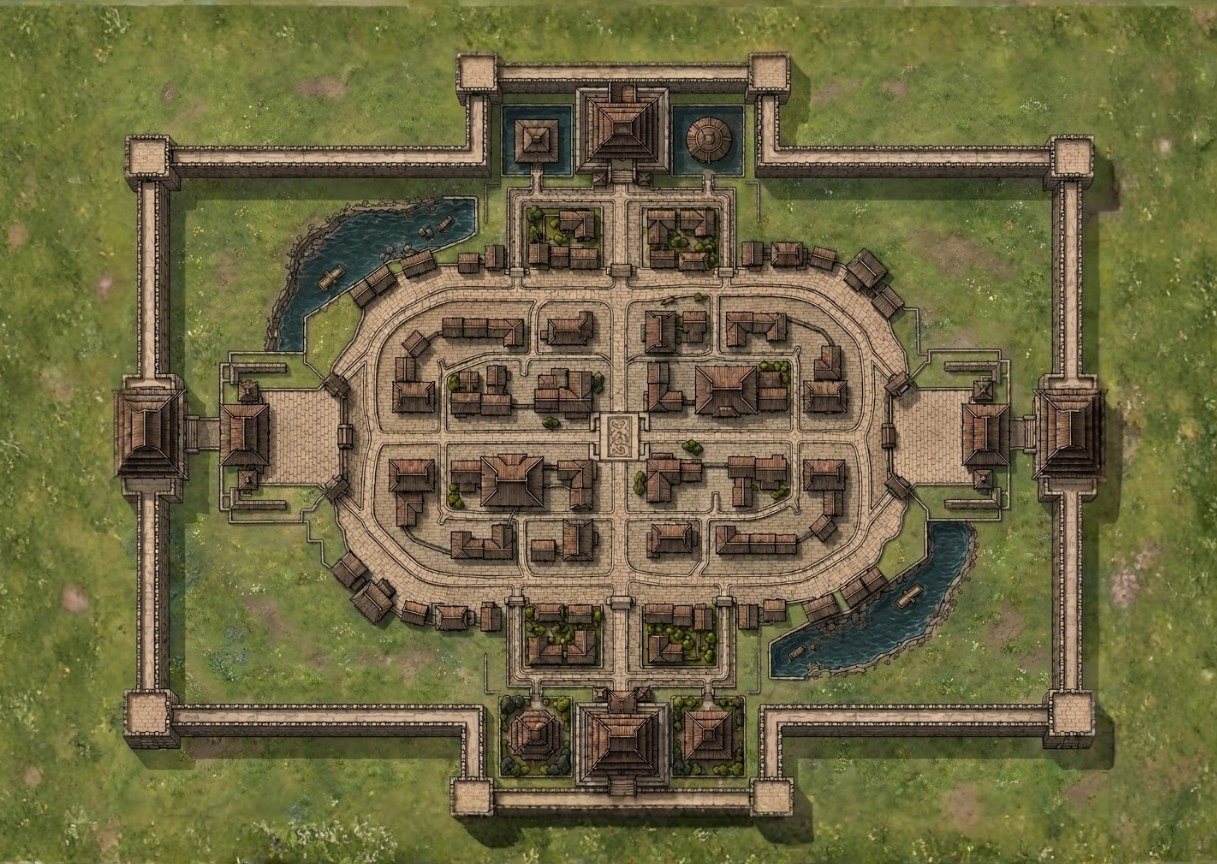
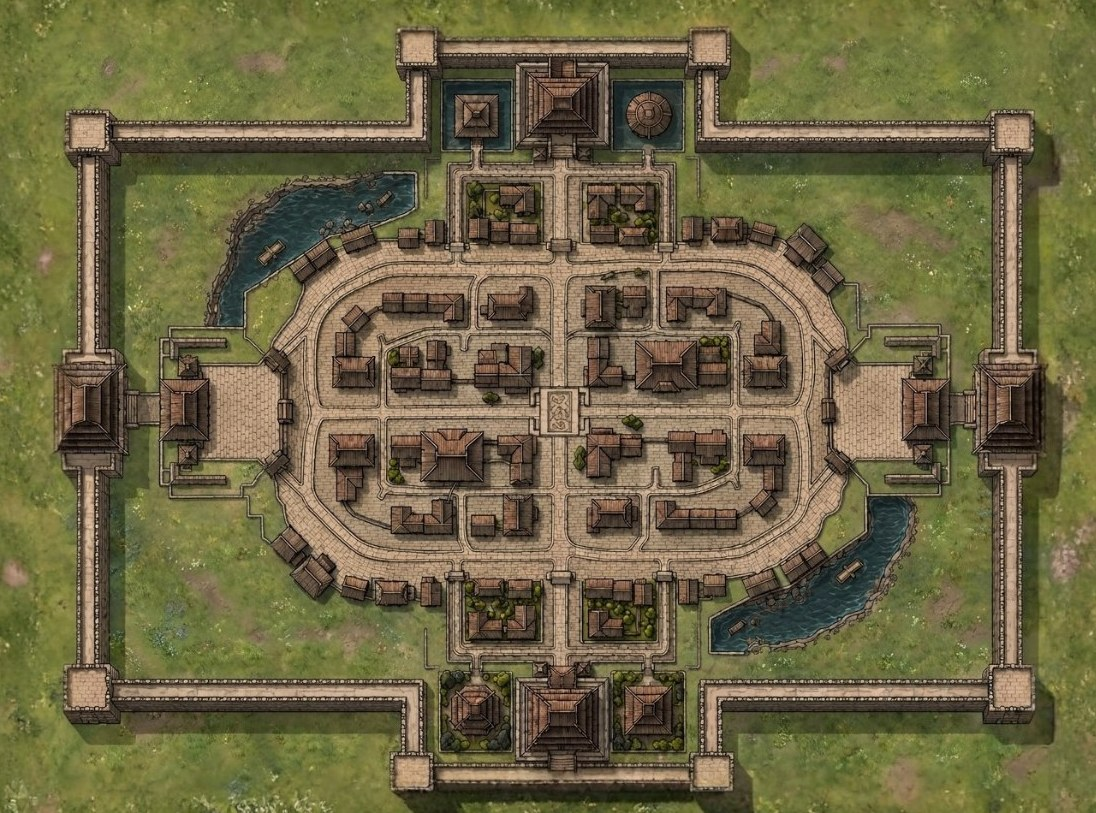
Estrategia: remapear objetivos + calibracao + zoom + corte + icones de classe
Mapa: cortado nas laterais (menos grama) e cantos arredondados no canvas.
mapSize atualizado (1096x813); posicoes dos objetivos recalculadas do zero a
partir do mapa de referencia (torres nas lanes, ganso/arvore nos portoes, boss
nas 2 pontas, outpost ao lado, jungle espalhada).

Calibracao: objetivos fixos (torres/boss/outpost/jungle) agora sao arrastaveis
QUANDO o painel "Objetivos" esta aberto (mostram anel tracejado), e a posicao
fica salva globalmente (mesma em todos os cenarios). Fora do painel ficam
travados. Ganso/arvore continuam moveis por cenario. Assim da pra acertar a
posicao 1 vez e travar.

Outros:
- Controles de zoom no mapa (+ / - / ajustar), alem do scroll.
- "Fases padrao" saiu da topbar e virou botao dentro do dock de fases.
- Painel de objetivos: toggle por GRUPO (liga/desliga Torres, Jungle etc. de
  uma vez) com contador; nao precisa marcar 1 a 1.
- Icones de classe (Tank/DPS/Healer da referencia) nos tokens de membro
  destacado, no lugar da letra.
- objetivoPosGlobal salvo no projeto/export/share.

Claude-Session: https://claude.ai/code/session_01QzsUHuP26rXPEKq16jdjKF

diff --git a/estrategia/config.js b/estrategia/config.js
@@ -11,14 +11,14 @@
 
 const WWM = {
   /* --- imagem do mapa ---------------------------------------------------- */
-  // Tamanho natural (px) da arte do mapa. Usado só para manter proporção.
-  mapSize: { w: 1217, h: 864 },
+  // Tamanho natural (px) da arte do mapa (v2 cortado). Só para manter proporção.
+  mapSize: { w: 1096, h: 813 },
 
   assets: {
-    // Mapa base (limpo, grama até a borda) — gerado pela guild (v2).
+    // Mapa base (limpo, grama até a borda, cortado) — gerado pela guild (v2).
     map: '../assets/map/board.jpg',
 
-    // Ícones dos objetivos (placeholder do vendor-ref — TODO: trocar por próprios).
+    // Ícones (placeholder do vendor-ref — TODO: trocar por próprios).
     icons: {
       tower_blue: '../assets/vendor-ref/tower_blue.png',
       tower_red:  '../assets/vendor-ref/tower_red.png',
@@ -27,8 +27,14 @@ const WWM = {
       tree_blue:  '../assets/vendor-ref/tree_blue.png',
       tree_red:   '../assets/vendor-ref/tree_red.png',
       boss:       '../assets/vendor-ref/boss.png',
+      tank:       '../assets/vendor-ref/tank.png',
+      dps:        '../assets/vendor-ref/dps.png',
+      healer:     '../assets/vendor-ref/healer.png',
     },
   },
+
+  // ícone de classe por função (para os tokens de membro destacado)
+  classIcons: { Tank: 'tank', DPS: 'dps', Healer: 'healer' },
 
   /* --- catálogo de objetivos -------------------------------------------
    * Cada objetivo pode ser ligado/desligado ("up") por cenário e reposicionado
@@ -41,33 +47,33 @@ const WWM = {
   // TODO: refinar posições no mapa novo que a guild vai gerar.
   objetivos: [
     // 3 torres por lado (top / mid / bot) — FIXAS
-    { id: 'torre_top_o', grupo: 'Torres', rotulo: 'Torre Top (O)', icone: 'tower_blue', x: 0.393, y: 0.312 },
-    { id: 'torre_mid_o', grupo: 'Torres', rotulo: 'Torre Mid (O)', icone: 'tower_blue', x: 0.393, y: 0.499 },
-    { id: 'torre_bot_o', grupo: 'Torres', rotulo: 'Torre Bot (O)', icone: 'tower_blue', x: 0.393, y: 0.687 },
-    { id: 'torre_top_l', grupo: 'Torres', rotulo: 'Torre Top (L)', icone: 'tower_red',  x: 0.626, y: 0.312 },
-    { id: 'torre_mid_l', grupo: 'Torres', rotulo: 'Torre Mid (L)', icone: 'tower_red',  x: 0.626, y: 0.499 },
-    { id: 'torre_bot_l', grupo: 'Torres', rotulo: 'Torre Bot (L)', icone: 'tower_red',  x: 0.626, y: 0.687 },
-    // ganso nos 2 lados (nasce no portão) — MÓVEL (mas só dentro da base)
-    { id: 'ganso_o', grupo: 'Ganso', rotulo: 'Ganso (Oeste)', icone: 'goose_blue', x: 0.196, y: 0.499, movel: true },
-    { id: 'ganso_l', grupo: 'Ganso', rotulo: 'Ganso (Leste)', icone: 'goose_red',  x: 0.827, y: 0.499, movel: true },
+    { id: 'torre_top_o', grupo: 'Torres', rotulo: 'Torre Top (O)', icone: 'tower_blue', x: 0.392, y: 0.322 },
+    { id: 'torre_mid_o', grupo: 'Torres', rotulo: 'Torre Mid (O)', icone: 'tower_blue', x: 0.392, y: 0.521 },
+    { id: 'torre_bot_o', grupo: 'Torres', rotulo: 'Torre Bot (O)', icone: 'tower_blue', x: 0.392, y: 0.721 },
+    { id: 'torre_top_l', grupo: 'Torres', rotulo: 'Torre Top (L)', icone: 'tower_red',  x: 0.627, y: 0.322 },
+    { id: 'torre_mid_l', grupo: 'Torres', rotulo: 'Torre Mid (L)', icone: 'tower_red',  x: 0.627, y: 0.521 },
+    { id: 'torre_bot_l', grupo: 'Torres', rotulo: 'Torre Bot (L)', icone: 'tower_red',  x: 0.627, y: 0.721 },
+    // ganso nos 2 lados (nasce no portão) — MÓVEL
+    { id: 'ganso_o', grupo: 'Ganso', rotulo: 'Ganso (Oeste)', icone: 'goose_blue', x: 0.195, y: 0.521, movel: true },
+    { id: 'ganso_l', grupo: 'Ganso', rotulo: 'Ganso (Leste)', icone: 'goose_red',  x: 0.829, y: 0.521, movel: true },
     // árvore nasce no MESMO ponto do ganso e caminha até o portão inimigo (333m) — MÓVEL
-    { id: 'arvore_o', grupo: 'Árvore', rotulo: 'Árvore (Oeste)', icone: 'tree_blue', x: 0.196, y: 0.499, movel: true, caminho: { a: [0.196, 0.499], b: [0.827, 0.499] } },
-    { id: 'arvore_l', grupo: 'Árvore', rotulo: 'Árvore (Leste)', icone: 'tree_red',  x: 0.827, y: 0.499, movel: true, caminho: { a: [0.827, 0.499], b: [0.196, 0.499] } },
+    { id: 'arvore_o', grupo: 'Árvore', rotulo: 'Árvore (Oeste)', icone: 'tree_blue', x: 0.195, y: 0.521, movel: true, caminho: { a: [0.195, 0.521], b: [0.829, 0.521] } },
+    { id: 'arvore_l', grupo: 'Árvore', rotulo: 'Árvore (Leste)', icone: 'tree_red',  x: 0.829, y: 0.521, movel: true, caminho: { a: [0.829, 0.521], b: [0.195, 0.521] } },
     // boss / nirvana nas 2 PONTAS (norte e sul) — FIXO
-    { id: 'boss_n', grupo: 'Boss', rotulo: 'Boss / Nirvana (N)', icone: 'boss', x: 0.420, y: 0.122 },
-    { id: 'boss_s', grupo: 'Boss', rotulo: 'Boss / Nirvana (S)', icone: 'boss', x: 0.579, y: 0.856 },
-    // outpost — nasce quase ao lado do boss (FIXO). Sem ícone próprio (marcador).
-    { id: 'outpost_n', grupo: 'Outpost', rotulo: 'Outpost (N)', icone: 'outpost', x: 0.545, y: 0.150 },
-    { id: 'outpost_s', grupo: 'Outpost', rotulo: 'Outpost (S)', icone: 'outpost', x: 0.455, y: 0.828 },
+    { id: 'boss_n', grupo: 'Boss', rotulo: 'Boss / Nirvana (N)', icone: 'boss', x: 0.421, y: 0.122 },
+    { id: 'boss_s', grupo: 'Boss', rotulo: 'Boss / Nirvana (S)', icone: 'boss', x: 0.580, y: 0.900 },
+    // outpost — nasce quase ao lado do boss (FIXO). Marcador.
+    { id: 'outpost_n', grupo: 'Outpost', rotulo: 'Outpost (N)', icone: 'outpost', x: 0.576, y: 0.138 },
+    { id: 'outpost_s', grupo: 'Outpost', rotulo: 'Outpost (S)', icone: 'outpost', x: 0.444, y: 0.885 },
     // jungle (mini-ninjas) — 8 camps FIXOS
-    { id: 'jg_1', grupo: 'Jungle', rotulo: 'Jungle 1', icone: 'jungle', x: 0.37, y: 0.44 },
-    { id: 'jg_2', grupo: 'Jungle', rotulo: 'Jungle 2', icone: 'jungle', x: 0.45, y: 0.45 },
-    { id: 'jg_3', grupo: 'Jungle', rotulo: 'Jungle 3', icone: 'jungle', x: 0.55, y: 0.40 },
-    { id: 'jg_4', grupo: 'Jungle', rotulo: 'Jungle 4', icone: 'jungle', x: 0.63, y: 0.40 },
-    { id: 'jg_5', grupo: 'Jungle', rotulo: 'Jungle 5', icone: 'jungle', x: 0.37, y: 0.60 },
-    { id: 'jg_6', grupo: 'Jungle', rotulo: 'Jungle 6', icone: 'jungle', x: 0.45, y: 0.62 },
-    { id: 'jg_7', grupo: 'Jungle', rotulo: 'Jungle 7', icone: 'jungle', x: 0.55, y: 0.56 },
-    { id: 'jg_8', grupo: 'Jungle', rotulo: 'Jungle 8', icone: 'jungle', x: 0.63, y: 0.63 },
+    { id: 'jg_1', grupo: 'Jungle', rotulo: 'Jungle 1', icone: 'jungle', x: 0.407, y: 0.434 },
+    { id: 'jg_2', grupo: 'Jungle', rotulo: 'Jungle 2', icone: 'jungle', x: 0.482, y: 0.414 },
+    { id: 'jg_3', grupo: 'Jungle', rotulo: 'Jungle 3', icone: 'jungle', x: 0.557, y: 0.414 },
+    { id: 'jg_4', grupo: 'Jungle', rotulo: 'Jungle 4', icone: 'jungle', x: 0.613, y: 0.434 },
+    { id: 'jg_5', grupo: 'Jungle', rotulo: 'Jungle 5', icone: 'jungle', x: 0.407, y: 0.619 },
+    { id: 'jg_6', grupo: 'Jungle', rotulo: 'Jungle 6', icone: 'jungle', x: 0.482, y: 0.639 },
+    { id: 'jg_7', grupo: 'Jungle', rotulo: 'Jungle 7', icone: 'jungle', x: 0.557, y: 0.639 },
+    { id: 'jg_8', grupo: 'Jungle', rotulo: 'Jungle 8', icone: 'jungle', x: 0.613, y: 0.619 },
   ],
   objetivosGrupos: ['Torres', 'Ganso', 'Árvore', 'Boss', 'Outpost', 'Jungle'],
   treeMeters: 333,   // distância total do caminho da árvore (base -> portão inimigo)

diff --git a/estrategia/app.js b/estrategia/app.js
@@ -31,7 +31,7 @@
   const objBtn = $('objBtn'), objPanel = $('objPanel'), objClose = $('objClose'), objGroups = $('objGroups');
   const fasesBtn = $('fasesBtn'), dockCollapse = $('dockCollapse'), dockMini = $('dockMini'), dockExpand = $('dockExpand'), miniName = $('miniName'), miniPrev = $('miniPrev'), miniNext = $('miniNext');
 
-  const state = { scenarios: [], currentId: null, roster: [], tool: 'select', drawColor: CFG.drawColors[0], drawWidth: CFG.drawWidths[0], present: false };
+  const state = { scenarios: [], currentId: null, roster: [], objetivoPosGlobal: {}, tool: 'select', drawColor: CFG.drawColors[0], drawWidth: CFG.drawWidths[0], present: false };
   const partyById = new Map(CFG.parties.map(p => [p.id, p]));
   const objById = new Map(CFG.objetivos.map(o => [o.id, o]));
   let popoverPt = null, rosterDraft = [];
@@ -86,6 +86,8 @@
   }
   function clampPos(x, y, s) { const minX = W - W * s, minY = H - H * s; if (s <= 1) return { x: 0, y: 0 }; return { x: Math.min(0, Math.max(minX, x)), y: Math.min(0, Math.max(minY, y)) }; }
   function updateStageDrag() { stage.draggable(stage.scaleX() > 1 && state.tool === 'select'); }
+  function zoomBy(factor) { const cx = W / 2, cy = H / 2, old = stage.scaleX(); let ns = Math.max(1, Math.min(4, old * factor)); const mp = { x: (cx - stage.x()) / old, y: (cy - stage.y()) / old }; stage.scale({ x: ns, y: ns }); stage.position(clampPos(cx - mp.x * ns, cy - mp.y * ns, ns)); stage.batchDraw(); updateStageDrag(); hidePopover(); }
+  function zoomReset() { stage.scale({ x: 1, y: 1 }); stage.position({ x: 0, y: 0 }); stage.batchDraw(); updateStageDrag(); hidePopover(); }
   function frac() { const p = stage.getPointerPosition(); if (!p) return null; const s = stage.scaleX() || 1; return { xf: clamp01((p.x - stage.x()) / s / W), yf: clamp01((p.y - stage.y()) / s / H) }; }
 
   // ---- undo (cenário inteiro: tokens, desenhos, objetivos, posições, destacados) ----
@@ -151,7 +153,9 @@
     const p = partyById.get(d.pt), rc = roleColor(d.funcao), rm = Math.max(8, R * 0.56);
     const g = new Konva.Group({ draggable: !state.present, id: 'mem-' + d.id });
     g.add(new Konva.Circle({ radius: rm, fill: '#0b0e15', stroke: rc, strokeWidth: Math.max(1.6, rm * 0.22), shadowColor: '#000', shadowBlur: 4, shadowOpacity: 0.4, shadowOffsetY: 1 }));
-    g.add(new Konva.Text({ text: d.funcao[0], fontFamily: 'Oswald, sans-serif', fontStyle: '700', fontSize: rm * 0.9, fill: rc, align: 'center', verticalAlign: 'middle', width: rm * 2, height: rm * 2, offsetX: rm, offsetY: rm }));
+    const ci = iconImgs[(CFG.classIcons || {})[d.funcao]];
+    if (ci && ci.width) { const s = rm * 1.5, h = s * (ci.height / ci.width); g.add(new Konva.Image({ image: ci, width: s, height: h, offsetX: s / 2, offsetY: h / 2 })); }
+    else g.add(new Konva.Text({ text: d.funcao[0], fontFamily: 'Oswald, sans-serif', fontStyle: '700', fontSize: rm * 0.9, fill: rc, align: 'center', verticalAlign: 'middle', width: rm * 2, height: rm * 2, offsetX: rm, offsetY: rm }));
     const lbl = new Konva.Label({ x: rm + 3, y: -rm * 0.55 });
     lbl.add(new Konva.Tag({ fill: 'rgba(10,12,17,.78)', stroke: p.cor, strokeWidth: 0.8, cornerRadius: 3 }));
     lbl.add(new Konva.Text({ text: d.nome, fontFamily: 'Oswald, sans-serif', fontStyle: '600', fontSize: Math.max(8.5, R * 0.4), fill: '#EDEBE4', padding: 2 }));
@@ -208,7 +212,7 @@
   function hidePopover() { ptPopover.hidden = true; popoverPt = null; }
 
   // ---- objetivos ----
-  function objPos(o) { if (o.movel) { const p = cur().objetivoPos && cur().objetivoPos[o.id]; if (p) return { x: p.x, y: p.y }; } return { x: o.x, y: o.y }; }
+  function objPos(o) { if (o.movel) { const p = cur().objetivoPos && cur().objetivoPos[o.id]; if (p) return { x: p.x, y: p.y }; } else { const g = state.objetivoPosGlobal[o.id]; if (g) return { x: g.x, y: g.y }; } return { x: o.x, y: o.y }; }
   function treeMeters(o, xf, yf) { const a = o.caminho.a, b = o.caminho.b, ax = b[0] - a[0], ay = b[1] - a[1]; const t = ((xf - a[0]) * ax + (yf - a[1]) * ay) / (ax * ax + ay * ay || 1); return Math.round(Math.max(0, Math.min(1, t)) * CFG.treeMeters); }
   function renderObjectives() {
     objLayer.destroyChildren();
@@ -217,19 +221,20 @@
       if (!up[o.id]) return;
       const pos = objPos(o);
       if (o.caminho) objLayer.add(new Konva.Line({ points: [o.caminho.a[0] * W, o.caminho.a[1] * H, o.caminho.b[0] * W, o.caminho.b[1] * H], stroke: hexA(o.icone === 'tree_red' ? '#E25B52' : '#89ABC5', 0.45), strokeWidth: Math.max(1, R * 0.05), dash: [4, 6], listening: false }));
-      const g = new Konva.Group({ x: pos.x * W, y: pos.y * H, draggable: !state.present && !!o.movel });
+      const calib = !objPanel.hidden, canDrag = !state.present && (!!o.movel || calib);
+      const g = new Konva.Group({ x: pos.x * W, y: pos.y * H, draggable: canDrag });
       g.add(new Konva.Circle({ radius: os * 0.58, fill: 'rgba(8,10,14,.34)', stroke: 'rgba(255,255,255,.1)', strokeWidth: 1 }));
+      if (calib && !o.movel) g.add(new Konva.Circle({ radius: os * 0.66, stroke: '#D9A441', strokeWidth: 1.5, dash: [3, 3], opacity: 0.9 }));   // sinaliza calibração
       const img = iconImgs[o.icone];
       if (img && img.width) { const h = os * (img.height / img.width); g.add(new Konva.Image({ image: img, width: os, height: h, offsetX: os / 2, offsetY: h / 2 })); }
       else { const isOut = o.icone === 'outpost', col = isOut ? '#D9A441' : '#4CC9A4', txt = isOut ? 'OUT' : 'JG'; g.add(new Konva.Circle({ radius: os * 0.4, fill: hexA(col, 0.2), stroke: col, strokeWidth: 1.5 })); g.add(new Konva.Text({ text: txt, fontFamily: 'Oswald, sans-serif', fontStyle: '700', fontSize: os * (isOut ? 0.26 : 0.32), fill: col, align: 'center', verticalAlign: 'middle', width: os, height: os, offsetX: os / 2, offsetY: os / 2 })); }
       if (o.caminho) { const ml = new Konva.Label({ name: 'tm', y: os * 0.58 }); ml.add(new Konva.Tag({ fill: 'rgba(10,12,17,.82)', cornerRadius: 3, pointerDirection: 'up', pointerWidth: 5, pointerHeight: 4 })); ml.add(new Konva.Text({ text: treeMeters(o, pos.x, pos.y) + 'm', fontFamily: 'Oswald, sans-serif', fontStyle: '700', fontSize: Math.max(9, os * 0.3), fill: '#f0c66b', padding: 3 })); ml.offsetX(ml.getClientRect({ skipTransform: true }).width / 2); g.add(ml); }
-      // remover objetivo: duplo-clique
       g.on('dblclick dbltap', e => { e.cancelBubble = true; pushUndo(); delete cur().objetivos[o.id]; if (cur().objetivoPos) delete cur().objetivoPos[o.id]; renderObjectives(); if (!objPanel.hidden) renderObjPanel(); saveProject(); });
-      if (!state.present && o.movel) {
+      if (canDrag) {
         g.dragBoundFunc(clampToStage);
-        g.on('dragstart', pushUndo);
+        g.on('dragstart', () => { if (o.movel) pushUndo(); });
         g.on('dragmove', () => { if (o.caminho) { const t = g.findOne('.tm'); if (t) { t.findOne('Text').text(treeMeters(o, g.x() / W, g.y() / H) + 'm'); t.offsetX(t.getClientRect({ skipTransform: true }).width / 2); } } objLayer.batchDraw(); });
-        g.on('dragend', () => { cur().objetivoPos = cur().objetivoPos || {}; cur().objetivoPos[o.id] = { x: clamp01(g.x() / W), y: clamp01(g.y() / H) }; saveProject(); });
+        g.on('dragend', () => { const p = { x: clamp01(g.x() / W), y: clamp01(g.y() / H) }; if (o.movel) { cur().objetivoPos = cur().objetivoPos || {}; cur().objetivoPos[o.id] = p; } else { state.objetivoPosGlobal[o.id] = p; } saveProject(); });
         g.on('mouseenter', () => stage.container().style.cursor = 'grab');
         g.on('mouseleave', () => stage.container().style.cursor = toolCursor());
       } else {
@@ -240,21 +245,28 @@
     });
     objLayer.batchDraw();
   }
+  function setObjUp(id, on) { const c = cur().objetivos; if (on) c[id] = true; else { delete c[id]; if (cur().objetivoPos) delete cur().objetivoPos[id]; } }
   function renderObjPanel() {
     const up = cur() ? (cur().objetivos || {}) : {}; objGroups.innerHTML = '';
     CFG.objetivosGrupos.forEach(grp => {
       const list = CFG.objetivos.filter(o => o.grupo === grp); if (!list.length) return;
-      const box = document.createElement('div'); box.className = 'obj-g'; box.innerHTML = '<div class="gh">' + grp + '</div>';
+      const nUp = list.filter(o => up[o.id]).length, allUp = nUp === list.length;
+      const box = document.createElement('div'); box.className = 'obj-g';
+      const gh = document.createElement('label'); gh.className = 'obj-gh' + (nUp ? ' any' : '');
+      gh.innerHTML = '<input type="checkbox"' + (allUp ? ' checked' : '') + '><span class="gname">' + grp + '</span><span class="gcount">' + nUp + '/' + list.length + '</span>';
+      const gcb = gh.querySelector('input'); gcb.indeterminate = nUp > 0 && !allUp;
+      gcb.addEventListener('change', () => { pushUndo(); list.forEach(o => setObjUp(o.id, gcb.checked)); renderObjectives(); renderObjPanel(); saveProject(); });
+      box.appendChild(gh);
       list.forEach(o => {
         const row = document.createElement('label'); row.className = 'obj-row' + (up[o.id] ? ' up' : '');
         row.innerHTML = '<input type="checkbox"' + (up[o.id] ? ' checked' : '') + '><span class="on"></span><span class="nm">' + esc(o.rotulo) + '</span>';
-        row.querySelector('input').addEventListener('change', e => { pushUndo(); const c = cur().objetivos; if (e.target.checked) c[o.id] = true; else { delete c[o.id]; if (cur().objetivoPos) delete cur().objetivoPos[o.id]; } row.classList.toggle('up', e.target.checked); renderObjectives(); saveProject(); });
+        row.querySelector('input').addEventListener('change', e => { pushUndo(); setObjUp(o.id, e.target.checked); row.classList.toggle('up', e.target.checked); renderObjectives(); renderObjPanel(); saveProject(); });
         box.appendChild(row);
       });
       objGroups.appendChild(box);
     });
   }
-  function toggleObjPanel(force) { const show = force != null ? force : objPanel.hidden; if (show) { renderObjPanel(); objPanel.hidden = false; objBtn.classList.add('on'); } else { objPanel.hidden = true; objBtn.classList.remove('on'); } }
+  function toggleObjPanel(force) { const show = force != null ? force : objPanel.hidden; if (show) { renderObjPanel(); objPanel.hidden = false; objBtn.classList.add('on'); } else { objPanel.hidden = true; objBtn.classList.remove('on'); } renderObjectives(); }
 
   // ---- desenho ----
   function toolCursor() { return DRAW.includes(state.tool) ? 'crosshair' : 'default'; }
@@ -329,11 +341,12 @@
   function autoAssign() { const avail = rosterDraft.filter(p => !p.ausente && !p.reserva); avail.forEach(p => p.pt = null); if (!avail.length) { renderGrid(); return; } const nPT = Math.max(1, Math.min(CFG.parties.length, Math.ceil(avail.length / CFG.ptSize))); const buckets = Array.from({ length: nPT }, () => []); let bi = 0; const deal = list => { list.forEach(p => { buckets[bi % nPT].push(p); bi++; }); }; bi = 0; deal(avail.filter(p => p.funcao === 'Tank')); bi = 0; deal(avail.filter(p => p.funcao === 'Healer')); bi = 0; deal(avail.filter(p => p.funcao === 'DPS')); buckets.forEach((b, k) => b.forEach(p => p.pt = PT_IDS[k])); renderGrid(); }
 
   // ---- export / import / compartilhar / reset ----
-  function projectData() { return { app: 'zhi-estrategia', v: 5, exportedAt: new Date().toISOString(), currentId: state.currentId, roster: state.roster, cenarios: state.scenarios }; }
+  function projectData() { return { app: 'zhi-estrategia', v: 5, exportedAt: new Date().toISOString(), currentId: state.currentId, roster: state.roster, objetivoPosGlobal: state.objetivoPosGlobal, cenarios: state.scenarios }; }
+  function sanitizePosMap(m) { return (m && typeof m === 'object') ? Object.fromEntries(Object.entries(m).filter(([k, v]) => objById.has(k) && v).map(([k, v]) => [k, { x: clamp01(v.x), y: clamp01(v.y) }])) : {}; }
   function exportProject() { const blob = new Blob([JSON.stringify(projectData(), null, 2)], { type: 'application/json' }); const url = URL.createObjectURL(blob), d = new Date(), pad = n => String(n).padStart(2, '0'); const a = document.createElement('a'); a.href = url; a.download = 'estrategia-wanted-' + d.getFullYear() + pad(d.getMonth() + 1) + pad(d.getDate()) + '.json'; document.body.appendChild(a); a.click(); a.remove(); setTimeout(() => URL.revokeObjectURL(url), 1000); }
-  function applyImported(d) { const scenarios = Array.isArray(d.cenarios) ? d.cenarios : (Array.isArray(d.scenarios) ? d.scenarios : null); if (!scenarios || !scenarios.length) { alert('Não encontrei cenários neste plano.'); return false; } state.scenarios = scenarios.map(sanitizeScenario); state.roster = Array.isArray(d.roster) ? d.roster.map(sanitizePlayer) : []; state.currentId = d.currentId && state.scenarios.some(s => s.id === d.currentId) ? d.currentId : state.scenarios[0].id; hidePopover(); renderRail(); loadScenarioIntoUI(); renderDrawings(); renderObjectives(); renderSidebar(); renderTokens(); saveProject(); return true; }
+  function applyImported(d) { const scenarios = Array.isArray(d.cenarios) ? d.cenarios : (Array.isArray(d.scenarios) ? d.scenarios : null); if (!scenarios || !scenarios.length) { alert('Não encontrei cenários neste plano.'); return false; } state.scenarios = scenarios.map(sanitizeScenario); state.roster = Array.isArray(d.roster) ? d.roster.map(sanitizePlayer) : []; state.objetivoPosGlobal = sanitizePosMap(d.objetivoPosGlobal); state.currentId = d.currentId && state.scenarios.some(s => s.id === d.currentId) ? d.currentId : state.scenarios[0].id; hidePopover(); renderRail(); loadScenarioIntoUI(); renderDrawings(); renderObjectives(); renderSidebar(); renderTokens(); saveProject(); return true; }
   function importProjectFile(file) { const reader = new FileReader(); reader.onload = () => { let d; try { d = JSON.parse(reader.result); } catch (e) { alert('Arquivo inválido: não é um JSON.'); return; } if (!Array.isArray(d.cenarios) && !Array.isArray(d.scenarios)) { alert('Não encontrei cenários neste arquivo.'); return; } if (state.scenarios.some(s => !isPristine(s)) && !confirm('Importar vai substituir o plano atual. Continuar?')) return; applyImported(d); }; reader.readAsText(file); }
-  function resetAll() { if (!confirm('Resetar tudo e começar um plano do zero? (não dá pra desfazer)')) return; try { localStorage.removeItem(CFG.projectKey); } catch (e) {} const s = newScenario({ fase: 'Start', nome: 'Start (30m)' }); state.scenarios = [s]; state.currentId = s.id; state.roster = []; toggleObjPanel(false); hidePopover(); renderRail(); loadScenarioIntoUI(); renderDrawings(); renderObjectives(); renderSidebar(); renderTokens(); saveProject(); toast('Plano resetado ✓'); }
+  function resetAll() { if (!confirm('Resetar tudo e começar um plano do zero? (não dá pra desfazer)')) return; try { localStorage.removeItem(CFG.projectKey); } catch (e) {} const s = newScenario({ fase: 'Start', nome: 'Start (30m)' }); state.scenarios = [s]; state.currentId = s.id; state.roster = []; state.objetivoPosGlobal = {}; toggleObjPanel(false); hidePopover(); renderRail(); loadScenarioIntoUI(); renderDrawings(); renderObjectives(); renderSidebar(); renderTokens(); saveProject(); toast('Plano resetado ✓'); }
   function b64urlFromBytes(bytes) { let bin = ''; for (let i = 0; i < bytes.length; i++) bin += String.fromCharCode(bytes[i]); return btoa(bin).replace(/\+/g, '-').replace(/\//g, '_').replace(/=+$/, ''); }
   function bytesFromB64url(s) { s = s.replace(/-/g, '+').replace(/_/g, '/'); const bin = atob(s); const a = new Uint8Array(bin.length); for (let i = 0; i < bin.length; i++) a[i] = bin.charCodeAt(i); return a; }
   async function encodeShare(obj) { const bytes = new TextEncoder().encode(JSON.stringify(obj)); if (window.CompressionStream) { const st = new Blob([bytes]).stream().pipeThrough(new CompressionStream('gzip')); return 'g' + b64urlFromBytes(new Uint8Array(await new Response(st).arrayBuffer())); } return 'r' + b64urlFromBytes(bytes); }
@@ -370,6 +383,7 @@
     exportBtn.addEventListener('click', exportProject); importBtn.addEventListener('click', () => importFile.click());
     importFile.addEventListener('change', e => { const f = e.target.files[0]; if (f) importProjectFile(f); e.target.value = ''; });
     shareBtn.addEventListener('click', shareLink); resetBtn.addEventListener('click', resetAll);
+    $('zoomIn').addEventListener('click', () => zoomBy(1.25)); $('zoomOut').addEventListener('click', () => zoomBy(0.8)); $('zoomReset').addEventListener('click', zoomReset);
     presentBtn.addEventListener('click', enterPresent); exitBtn.addEventListener('click', exitPresent);
     prevBtn.addEventListener('click', () => go(-1)); nextBtn.addEventListener('click', () => go(1));
     miniPrev.addEventListener('click', () => go(-1)); miniNext.addEventListener('click', () => go(1));
@@ -402,8 +416,8 @@
   function setDock(open) { document.body.classList.toggle('dock-collapsed', !open); dockMini.hidden = open; fasesBtn.classList.toggle('on', open); if (!open) updateMini(); requestAnimationFrame(fit); }
 
   // ---- persistência ----
-  function saveProject() { try { localStorage.setItem(CFG.projectKey, JSON.stringify({ v: 5, currentId: state.currentId, scenarios: state.scenarios, roster: state.roster })); } catch (e) {} }
-  function loadProject() { try { const raw = localStorage.getItem(CFG.projectKey); if (raw) { const d = JSON.parse(raw); if (Array.isArray(d.scenarios) && d.scenarios.length) { state.scenarios = d.scenarios.map(sanitizeScenario); state.currentId = d.currentId && state.scenarios.some(s => s.id === d.currentId) ? d.currentId : state.scenarios[0].id; if (Array.isArray(d.roster)) state.roster = d.roster.map(sanitizePlayer); return; } } } catch (e) {} const s = newScenario({ fase: 'Start', nome: 'Start (30m)' }); state.scenarios = [s]; state.currentId = s.id; }
+  function saveProject() { try { localStorage.setItem(CFG.projectKey, JSON.stringify({ v: 5, currentId: state.currentId, scenarios: state.scenarios, roster: state.roster, objetivoPosGlobal: state.objetivoPosGlobal })); } catch (e) {} }
+  function loadProject() { try { const raw = localStorage.getItem(CFG.projectKey); if (raw) { const d = JSON.parse(raw); if (Array.isArray(d.scenarios) && d.scenarios.length) { state.scenarios = d.scenarios.map(sanitizeScenario); state.currentId = d.currentId && state.scenarios.some(s => s.id === d.currentId) ? d.currentId : state.scenarios[0].id; if (Array.isArray(d.roster)) state.roster = d.roster.map(sanitizePlayer); state.objetivoPosGlobal = sanitizePosMap(d.objetivoPosGlobal); return; } } } catch (e) {} const s = newScenario({ fase: 'Start', nome: 'Start (30m)' }); state.scenarios = [s]; state.currentId = s.id; }
   function sanitizeScenario(s) { return { id: s.id || uid(), fase: s.fase || 'Cenário', nome: s.nome || 'Cenário', condicao: s.condicao || null, tokens: Array.isArray(s.tokens) ? s.tokens.filter(t => partyById.has(t.pt)).map(t => ({ pt: t.pt, xf: clamp01(t.xf), yf: clamp01(t.yf) })) : [], desenhos: Array.isArray(s.desenhos) ? s.desenhos.filter(d => d && Array.isArray(d.pontos)).map(d => ({ tipo: d.tipo, pontos: d.pontos.map(p => [clamp01(p[0]), clamp01(p[1])]), cor: d.cor || '#FFC21A', largura: d.largura || 3 })) : [], objetivos: (s.objetivos && typeof s.objetivos === 'object') ? Object.fromEntries(Object.keys(s.objetivos).filter(k => objById.has(k) && s.objetivos[k]).map(k => [k, true])) : {}, objetivoPos: (s.objetivoPos && typeof s.objetivoPos === 'object') ? Object.fromEntries(Object.entries(s.objetivoPos).filter(([k, v]) => objById.has(k) && v).map(([k, v]) => [k, { x: clamp01(v.x), y: clamp01(v.y) }])) : {}, destacados: Array.isArray(s.destacados) ? s.destacados.filter(d => partyById.has(d.pt)).map(d => ({ id: d.id || uid(), pt: d.pt, nome: String(d.nome || '—'), funcao: ['Tank', 'DPS', 'Healer'].includes(d.funcao) ? d.funcao : 'DPS', xf: clamp01(d.xf), yf: clamp01(d.yf) })) : [], nota: typeof s.nota === 'string' ? s.nota : '' }; }
   function sanitizePlayer(p) { const funcao = ['Tank', 'DPS', 'Healer'].includes(p.funcao) ? p.funcao : 'DPS'; return { id: p.id || uid(), nome: String(p.nome || '—'), classe: String(p.classe || funcao), funcao, status: p.status || 'primary', ausente: !!p.ausente, reserva: !!p.reserva, pt: PT_IDS.includes(p.pt) ? p.pt : null, nota: typeof p.nota === 'string' ? p.nota : '' }; }
 })();

diff --git a/estrategia/index.html b/estrategia/index.html
@@ -73,10 +73,23 @@
     .stage-col{grid-column:1;grid-row:1;position:relative;min-width:0;min-height:0}
     .map-panel{position:absolute;inset:0;display:grid;place-items:center;padding:10px;
       background:radial-gradient(90% 80% at 50% 40%, rgba(20,24,33,.5), transparent 70%);overflow:hidden;}
-    #stageWrap{position:relative;line-height:0;filter:drop-shadow(0 24px 60px rgba(0,0,0,.55));}
+    #stageWrap{position:relative;line-height:0;border-radius:16px;overflow:hidden;box-shadow:0 24px 60px -24px rgba(0,0,0,.7), inset 0 0 0 1px rgba(255,255,255,.05);}
     #stage{display:block}
-    #stageWrap::after{content:"";position:absolute;inset:-6px;border-radius:12px;pointer-events:none;transition:box-shadow .15s}
+    #stageWrap::after{content:"";position:absolute;inset:0;border-radius:16px;pointer-events:none;transition:box-shadow .15s}
     .map-panel.dragover #stageWrap::after{box-shadow:inset 0 0 0 2px var(--gold),inset 0 0 50px -8px rgba(217,164,65,.35)}
+    /* controles de zoom */
+    .zoom-ctrl{position:absolute;right:14px;bottom:14px;z-index:8;display:flex;flex-direction:column;gap:5px}
+    .zoom-ctrl button{width:34px;height:34px;display:grid;place-items:center;cursor:pointer;border:1px solid var(--line);border-radius:9px;
+      background:rgba(12,15,22,.92);color:var(--text);font-family:var(--disp);font-size:17px;line-height:1;backdrop-filter:blur(4px);transition:.12s;box-shadow:0 10px 26px -18px #000}
+    .zoom-ctrl button:hover{color:var(--gold);border-color:color-mix(in srgb,var(--gold) 45%,transparent)}
+    .zoom-ctrl button svg{width:15px;height:15px}
+    body.present .zoom-ctrl{display:none}
+    /* header de grupo no painel de objetivos (toggle do grupo) */
+    .obj-gh{display:flex;align-items:center;gap:8px;padding:6px 4px 5px;margin-top:6px;cursor:pointer;border-bottom:1px solid var(--line-soft)}
+    .obj-gh input{accent-color:var(--gold);width:15px;height:15px}
+    .obj-gh .gname{font-family:var(--disp);font-weight:700;font-size:10px;letter-spacing:.12em;text-transform:uppercase;color:var(--gold)}
+    .obj-gh.any .gname{color:var(--gold-2)}
+    .obj-gh .gcount{margin-left:auto;font-size:10px;color:var(--muted);font-variant-numeric:tabular-nums}
     .map-hint{position:absolute;left:50%;top:50%;transform:translate(-50%,-50%);z-index:5;pointer-events:none;text-align:center;
       background:rgba(10,12,17,.78);border:1px solid var(--line);border-radius:12px;padding:13px 18px;backdrop-filter:blur(2px);
       max-width:80%;font-family:var(--disp);font-weight:500;letter-spacing:.03em;color:var(--text);font-size:13.5px;transition:opacity .25s;}
@@ -332,10 +345,6 @@
         <svg viewBox="0 0 24 24" fill="none" stroke="currentColor" stroke-width="2" stroke-linecap="round" stroke-linejoin="round"><path d="M17 21v-2a4 4 0 0 0-4-4H5a4 4 0 0 0-4 4v2"/><circle cx="9" cy="7" r="4"/><path d="M23 21v-2a4 4 0 0 0-3-3.87M16 3.13A4 4 0 0 1 16 11"/></svg>
         Roster
       </button>
-      <button class="tbtn" id="seedBtn" title="Cria os cenários das fases padrão da partida">
-        <svg viewBox="0 0 24 24" fill="none" stroke="currentColor" stroke-width="2" stroke-linecap="round" stroke-linejoin="round"><path d="M3 7h18M3 12h18M3 17h18"/></svg>
-        Fases padrão
-      </button>
       <button class="tbtn ico" id="exportBtn" title="Exportar o plano como JSON" aria-label="Exportar JSON"><svg viewBox="0 0 24 24" fill="none" stroke="currentColor" stroke-width="2" stroke-linecap="round" stroke-linejoin="round"><path d="M12 3v12M8 11l4 4 4-4M5 21h14"/></svg></button>
       <button class="tbtn ico" id="importBtn" title="Importar um plano de JSON" aria-label="Importar JSON"><svg viewBox="0 0 24 24" fill="none" stroke="currentColor" stroke-width="2" stroke-linecap="round" stroke-linejoin="round"><path d="M12 15V3M8 7l4-4 4 4M5 21h14"/></svg></button>
       <input type="file" id="importFile" accept="application/json,.json" hidden />
@@ -391,6 +400,11 @@
         <div class="pn-body"><span class="pn-phase"><span id="pnPhase">Fase</span><span class="pn-badge" id="pnBadge" hidden></span></span><p class="pn-text" id="pnText">—</p></div>
         <button class="pnav" id="nextBtn" aria-label="Próximo cenário">›</button>
       </div>
+      <div class="zoom-ctrl" id="zoomCtrl">
+        <button id="zoomIn" title="Aproximar" aria-label="Aproximar">+</button>
+        <button id="zoomOut" title="Afastar" aria-label="Afastar">−</button>
+        <button id="zoomReset" title="Ajustar / centralizar" aria-label="Ajustar"><svg viewBox="0 0 24 24" fill="none" stroke="currentColor" stroke-width="2" stroke-linecap="round" stroke-linejoin="round"><path d="M8 3H5a2 2 0 0 0-2 2v3M16 3h3a2 2 0 0 1 2 2v3M8 21H5a2 2 0 0 1-2-2v-3M16 21h3a2 2 0 0 0 2-2v-3"/></svg></button>
+      </div>
       <div class="dock-mini" id="dockMini" hidden>
         <button class="dm-nav" id="miniPrev" aria-label="Anterior">‹</button>
         <span class="dm-name" id="miniName">—</span>
@@ -431,6 +445,7 @@
         <div class="dock-actions">
           <button class="rbtn gold" id="dupScene" title="Cria um novo cenário já com PTs, desenhos e objetivos como estão agora"><svg viewBox="0 0 24 24" fill="none" stroke="currentColor" stroke-width="2" stroke-linecap="round" stroke-linejoin="round"><rect x="9" y="9" width="12" height="12" rx="2"/><path d="M5 15V5a2 2 0 0 1 2-2h10"/></svg>Duplicar</button>
           <button class="rbtn" id="addScene" title="Cria um cenário em branco"><svg viewBox="0 0 24 24" fill="none" stroke="currentColor" stroke-width="2" stroke-linecap="round" stroke-linejoin="round"><path d="M12 5v14M5 12h14"/></svg>Cenário</button>
+          <button class="rbtn" id="seedBtn" title="Semeia os cenários das fases padrão da partida"><svg viewBox="0 0 24 24" fill="none" stroke="currentColor" stroke-width="2" stroke-linecap="round" stroke-linejoin="round"><path d="M3 7h18M3 12h18M3 17h18"/></svg>Fases padrão</button>
         </div>
       </div>
       <div class="dock-rail"><div class="rail-scroll" id="rail"></div></div>